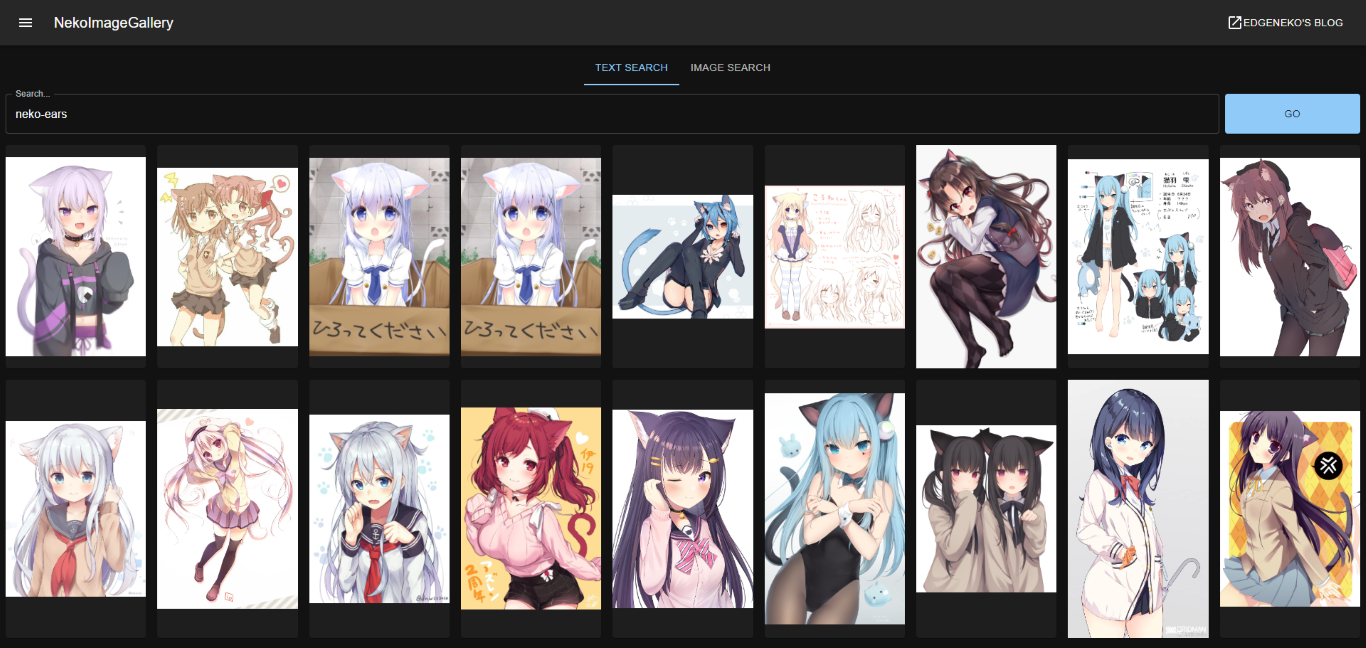
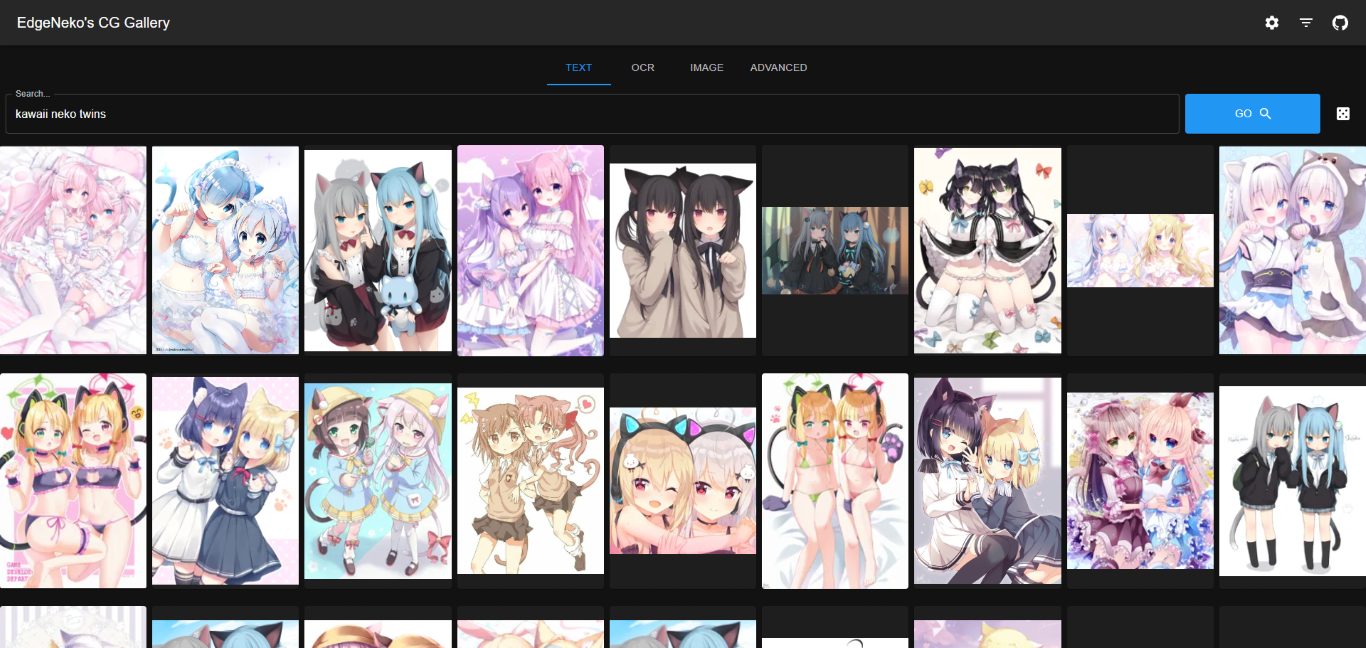
Renew screenshots

diff --git a/readme.md b/readme.md
@@ -24,6 +24,8 @@ image search.
 ![Screenshot2](web/screenshots/2.png)
 ![Screenshot3](web/screenshots/3.png)
 ![Screenshot4](web/screenshots/4.png)
+![Screenshot5](web/screenshots/5.png)
+![Screenshot6](web/screenshots/6.png)
 
 > The above screenshots may contain copyrighted images from different artists, please do not use them for other
 > purposes.

diff --git a/readme_cn.md b/readme_cn.md
@@ -21,6 +21,8 @@
 ![Screenshot2](web/screenshots/2.png)
 ![Screenshot3](web/screenshots/3.png)
 ![Screenshot4](web/screenshots/4.png)
+![Screenshot5](web/screenshots/5.png)
+![Screenshot6](web/screenshots/6.png)
 
 > 以上截图可能包含来自不同画师的版权图片，请不要将其用作其它用途。
 
